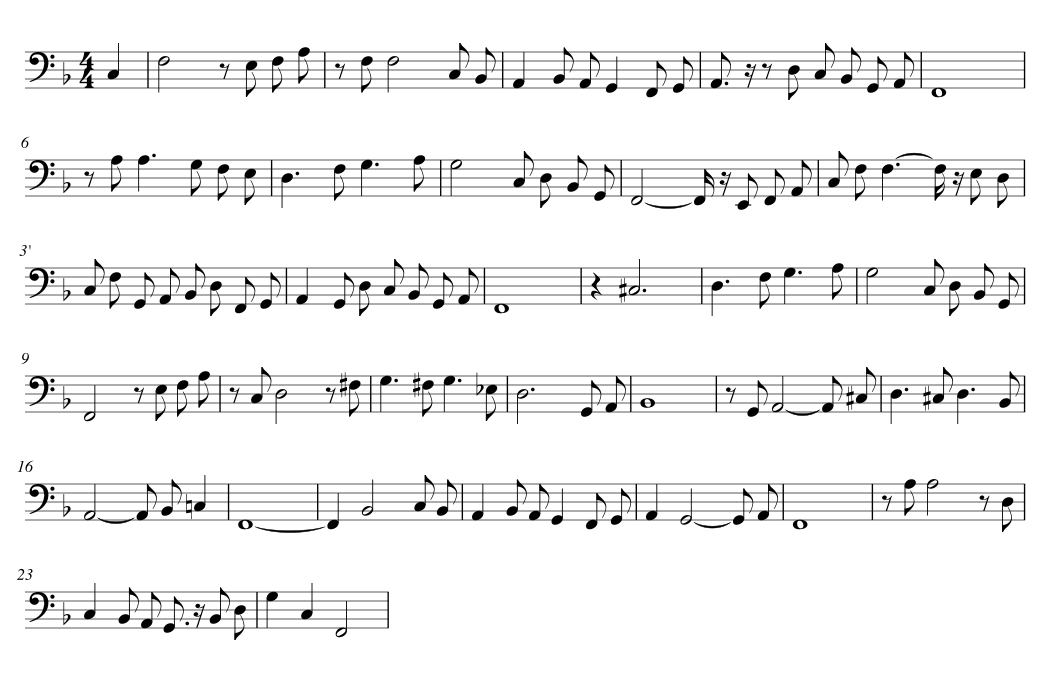
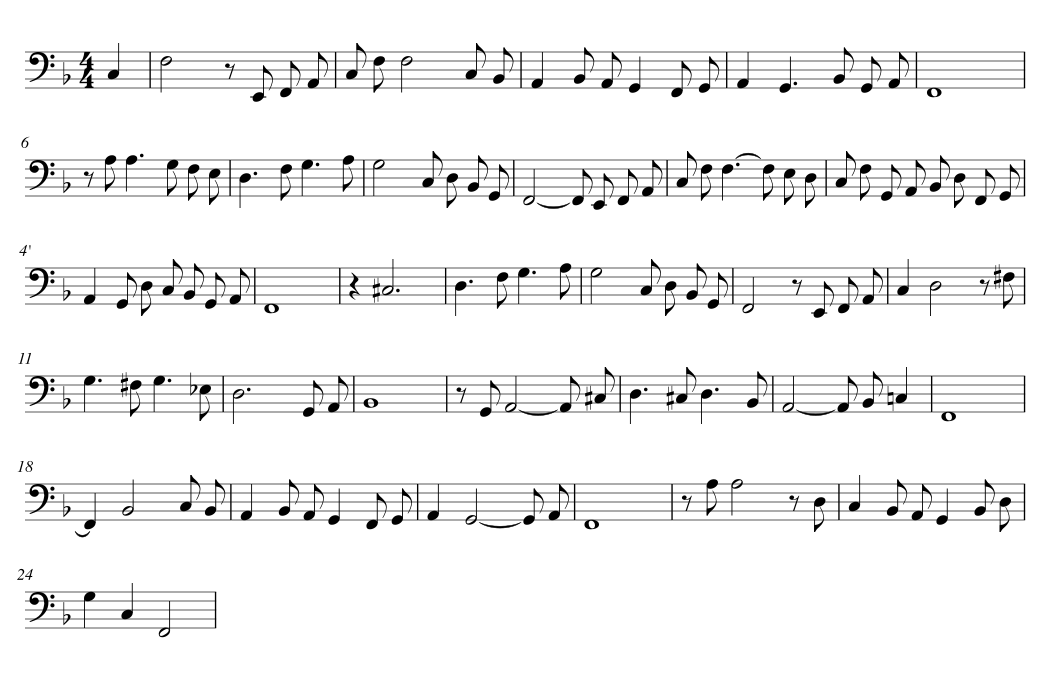
Bring the third hand edit into the reduction
E F A an octave lower in 1 and 9, fewer rests in A, 10 and 23.

diff --git a/hummed/test/reduction.test.ts b/hummed/test/reduction.test.ts
@@ -77,8 +77,8 @@ describe('the reduction as published', () => {
     assert.equal(notes.length, 122);
     assert.ok(notes.every((n) => n.pitch >= 40 && n.pitch <= 57));
   });
-  it('rests 14 times and runs to the end of the piece without gaps', () => {
-    assert.equal(r.events.filter((e) => e.kind === 'rest').length, 14);
+  it('rests 8 times and runs to the end of the piece without gaps', () => {
+    assert.equal(r.events.filter((e) => e.kind === 'rest').length, 8);
     for (let i = 1; i < r.events.length; i++) assert.equal(r.events[i].start, r.events[i - 1].end);
     assert.equal(r.events.at(-1)?.end, 92880);
     assert.equal(r.bars.length, 32);

diff --git a/hummed/README.md b/hummed/README.md
@@ -92,16 +92,16 @@ playing: which voice to follow from where, an octave shift where the range needs
 notes where the harmony holds still, rests to breathe, and air in two places. It has since been
 edited by hand (in MuseScore), with fewer rests and no air.
 
-- **A (1–8):** the opening motif an octave down; the melody's F5 two octaves down, then the
-  tenor's answer from C3 (2–3); the bass walk Grünfeld leans on, from D3 (4); F2 held under the
-  restarting melody (5); the melody's A5 G5 F5 E5, two octaves down (6); the tenor's rise D3 F3
-  G3 A3 (7); the bass (8).
+- **A (1–8):** the opening motif, its F an octave down and E F A two octaves down; the melody's
+  C5 F5 F5 two octaves down, then the tenor's answer from C3 (2–3); the tenor's A2 G2, then the
+  end of the bass walk Grünfeld leans on (4); F2 held under the restarting melody (5); the
+  melody's A5 G5 F5 E5, two octaves down (6); the tenor's rise D3 F3 G3 A3 (7); the bass (8).
 - **A repeated (1′–8′):** the melody itself, two octaves down, to its G4 at the end of 3′
   (1′–3′); the tenor's A2 G2, then the bass walk from D3 (4′); F2; in 6′, under the climb to A5,
   C♯3, the third of the A7 that the piano leaves out (it follows the bass's A3); then as in 7–8.
-- **B (9–16):** F2, then the melody at mf; the tenor C3 D3 F♯3 G3 … (10–12), its D3 held through
-  the quiet turn in 12; B♭2 over Grünfeld's low B♭1 (13); G2, A2 under the climax, C♯3 (14); D3
-  C♯3 D3 B♭2 (15); the ritardando A2 B♭2 C3 (16).
+- **B (9–16):** F2, then the melody at mf, two octaves down; the tenor C3 D3 F♯3 G3 … (10–12),
+  its D3 held through the quiet turn in 12; B♭2 over Grünfeld's low B♭1 (13); G2, A2 under the
+  climax, C♯3 (14); D3 C♯3 D3 B♭2 (15); the ritardando A2 B♭2 C3 (16).
 - **A and the close (17–24):** as before, with F2 pedal notes, the one in 17 held into 18 and
   followed by the bass's B♭2 (its grace note before the beat, sung on the beat with the F3 it leads
   to); the tenor's A2 G2 (20); the melody's A5 two octaves down, then D3, under the fermata (22);
@@ -109,7 +109,7 @@ edited by hand (in MuseScore), with fewer rests and no air.
 
 What the MEI says, and how the voice reads it:
 
-- **Rests** are where the voice stops, and it breathes in each of them: 14 (a rest after a rest
+- **Rests** are where the voice stops, and it breathes in each of them: 8 (a rest after a rest
   is one). Because a rest is a score position, the tempo times it: a breath in a slower passage
   lasts longer. The dynamics set a breath's depth: a deeper, audible intake before a louder
   stretch. The MEI marks no breaths.
@@ -129,13 +129,14 @@ What the MEI says, and how the voice reads it:
     lifted at the end of a note of a second or more.
 
   The choice that gains most is found by dynamic programming. Where the piano plays the
-  reconstruction as it is, that is 14 breaths, 28 with the rests; 13 (27) at the page's start and
-  12 (26) with the humming alone. Most lie where both maps turn or where a pedal note begins (3:2,
+  reconstruction as it is, that is 18 breaths, 26 with the rests; 17 (25) at the page's start and
+  16 (24) with the humming alone. Most lie where both maps turn or where a pedal note begins (3:2,
   8:3, 12:4, 15:4.5, 17:1, 18:2); a few, where 8 s would otherwise pass, at a weaker place (at the
-  page's start in 4′ and 20). The note before such a breath ends a quarter of its length early (0.15 to 0.35 s). The
-  weights were chosen by looking at where the breaths fall in this piece, not measured; a flat cost
-  had the voice breathe every 2.5 s where it could, and a cost that fell to nothing at 8 s had it
-  wait for the limit.
+  page's start in 5′ and 20). Where the last edits by hand took rests out, it still breathes at
+  two of those places (1′, 23) and near a third (4). The note before such a breath ends a quarter
+  of its length early (0.15 to 0.35 s). The weights were chosen by looking at where the breaths
+  fall in this piece, not measured; a flat cost had the voice breathe every 2.5 s where it could,
+  and a cost that fell to nothing at 8 s had it wait for the limit.
 
 - **Pedal notes** (`@type="pedal"`) are held to their written end, not to the piano key's release.
 - **Air**, which the reduction no longer has, is written as x noteheads, `@type` `air-teeth` or
